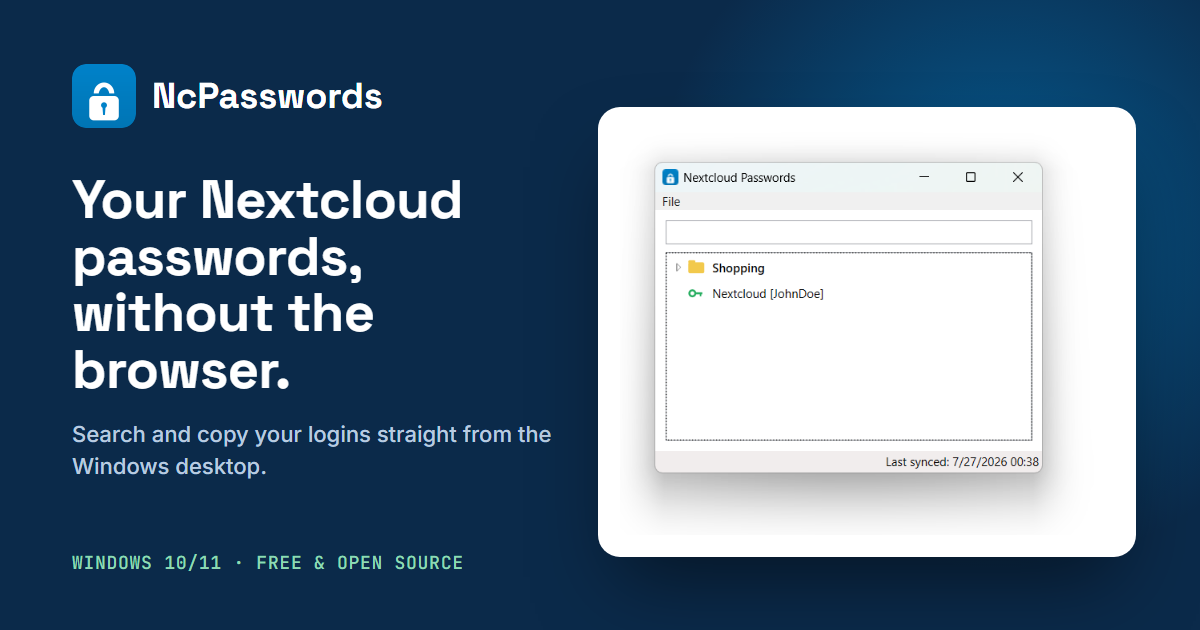
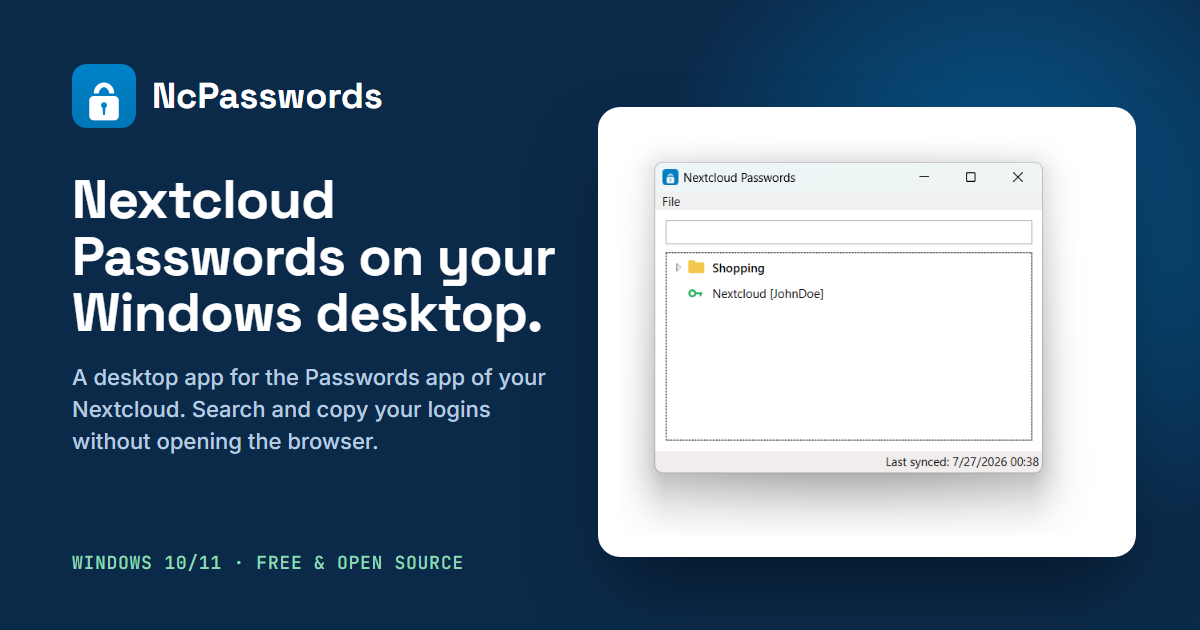
Rewrite the website copy to say clearly what the app is
The page now opens by saying NcPasswords is a Windows desktop app for
the Nextcloud Passwords app, and the rest of the text is shorter and
plainer. It also says that the app only reads passwords and doesn't
support client-side encryption. The title, description, social card
and preview image use the same wording.

Claude-Session: https://claude.ai/code/session_01R2U94GY1SfmXxuYcVYUFi4

Changed region(s): [[0.0617, 0.2714, 0.4625, 0.754]]

diff --git a/docs/index.html b/docs/index.html
@@ -3,8 +3,8 @@
 <head>
 <meta charset="utf-8">
 <meta name="viewport" content="width=device-width, initial-scale=1">
-<title>NcPasswords — Nextcloud Passwords app for Windows</title>
-<meta name="description" content="Free, open-source Windows app for Nextcloud Passwords. Sign in once, then search and copy your logins from the desktop — encrypted on your PC, works offline.">
+<title>NcPasswords – Nextcloud Passwords desktop app for Windows</title>
+<meta name="description" content="A Windows desktop app for the Nextcloud Passwords app. Search your saved logins and copy passwords without opening the browser. Free and open source.">
 <meta name="theme-color" content="#0082C9">
 <link rel="canonical" href="https://nc-passwords.genhttp.run/">
 <link rel="icon" type="image/png" sizes="64x64" href="assets/favicon-64.png">
@@ -18,16 +18,16 @@
 <meta property="og:site_name" content="NcPasswords">
 <meta property="og:locale" content="en_US">
 <meta property="og:url" content="https://nc-passwords.genhttp.run/">
-<meta property="og:title" content="NcPasswords — Nextcloud Passwords app for Windows">
-<meta property="og:description" content="Search and copy the logins you keep in Nextcloud Passwords straight from the Windows desktop. Free, open source, encrypted on your PC.">
+<meta property="og:title" content="NcPasswords – Nextcloud Passwords desktop app for Windows">
+<meta property="og:description" content="A Windows desktop app for the Nextcloud Passwords app: search your saved logins and copy passwords without opening the browser. Free and open source.">
 <meta property="og:image" content="https://nc-passwords.genhttp.run/assets/og-image.png">
 <meta property="og:image:type" content="image/png">
 <meta property="og:image:width" content="1200">
 <meta property="og:image:height" content="630">
-<meta property="og:image:alt" content="NcPasswords logo and the app window listing a Shopping folder and a Nextcloud login, next to the headline: Your Nextcloud passwords, without the browser.">
+<meta property="og:image:alt" content="NcPasswords logo and the app window listing a Shopping folder and a Nextcloud login, next to the headline: Nextcloud Passwords on your Windows desktop.">
 <meta name="twitter:card" content="summary_large_image">
-<meta name="twitter:title" content="NcPasswords — Nextcloud Passwords app for Windows">
-<meta name="twitter:description" content="Search and copy the logins you keep in Nextcloud Passwords straight from the Windows desktop. Free, open source, encrypted on your PC.">
+<meta name="twitter:title" content="NcPasswords – Nextcloud Passwords desktop app for Windows">
+<meta name="twitter:description" content="A Windows desktop app for the Nextcloud Passwords app: search your saved logins and copy passwords without opening the browser. Free and open source.">
 <meta name="twitter:image" content="https://nc-passwords.genhttp.run/assets/og-image.png">
 <meta name="twitter:image:alt" content="NcPasswords logo and the app window listing a Shopping folder and a Nextcloud login.">
 
@@ -139,7 +139,7 @@
   .hero h1{
     font-size: clamp(2.3rem, 4.4vw, 3.4rem);
     line-height: 1.06;
-    max-width: 16ch;
+    max-width: 24ch;
   }
   .hero-sub{
     margin-top: 20px; color: var(--muted); font-size: 1.14rem; max-width: 56ch;
@@ -276,12 +276,13 @@
 
   <section class="hero">
     <div class="wrap">
-      <span class="eyebrow">FOR NEXTCLOUD PASSWORDS</span>
-      <h1>Your passwords,<br>without the browser.</h1>
+      <span class="eyebrow">DESKTOP APP FOR NEXTCLOUD PASSWORDS</span>
+      <h1>Nextcloud Passwords<br>on your Windows desktop.</h1>
       <p class="hero-sub">
-        NcPasswords is a small Windows app for the vault you already keep in Nextcloud.
-        Sign in once, then look up, search and copy your logins straight from the desktop —
-        and everything it stores stays encrypted on your own PC.
+        NcPasswords is a Windows app for <a href="https://apps.nextcloud.com/apps/passwords">Passwords</a>,
+        the password manager you can install on your Nextcloud. Sign in once, and your saved logins are
+        always a click away: search for an entry, copy its password, and get on with your day,
+        without opening Nextcloud in the browser.
       </p>
       <div class="cta-row">
         <a class="btn btn-primary btn-lg" href="https://github.com/Kaliumhexacyanoferrat/nc-passwords-windows/releases/download/v0.2.0/NcPasswords-Setup-0.2.0.exe">
@@ -301,29 +302,29 @@
 
   <section class="trust" id="security">
     <div class="wrap">
-      <span class="eyebrow">LOCAL BY DESIGN</span>
-      <h2>Your secrets never leave this PC unencrypted.</h2>
+      <span class="eyebrow">SECURITY</span>
+      <h2>Your data stays on your PC, encrypted.</h2>
       <div class="trust-grid">
         <div class="trust-card">
           <div class="row">
             <svg width="20" height="20" viewBox="0 0 20 20" fill="none"><rect x="4" y="9" width="12" height="8" rx="2" fill="#1E9E5A"/><path d="M6.5 9V6.5a3.5 3.5 0 0 1 7 0V9" stroke="#1E9E5A" stroke-width="1.8" fill="none"/></svg>
-            <h3>Encrypted at rest</h3>
+            <h3>Encrypted on disk</h3>
           </div>
-          <p>Your Nextcloud login is protected the moment you sign in, using Windows' own per-user encryption (DPAPI) — readable only by your Windows account, on this PC. Want more? Set an optional additional password at sign-in and NcPasswords will ask for it every time it starts, so not even other apps running under your account can read your data without it.</p>
+          <p>Your Nextcloud login and the local copy of your passwords are encrypted with Windows' built-in protection (DPAPI), so only your Windows account on this PC can read them. For extra safety, set a local password when you sign in: NcPasswords then asks for it at every start, and other programs running under your account can't read the data without it.</p>
         </div>
         <div class="trust-card">
           <div class="row">
             <svg width="20" height="20" viewBox="0 0 20 20" fill="none"><path d="M10 2v16M4 6l6-4 6 4M4 6v9a2 2 0 0 0 2 2h8a2 2 0 0 0 2-2V6" stroke="#1E9E5A" stroke-width="1.8" fill="none" stroke-linejoin="round"/></svg>
             <h3>Works offline</h3>
           </div>
-          <p>Your passwords are cached the same way, locally, so NcPasswords keeps working without a connection — and never hands your vault to anyone else.</p>
+          <p>NcPasswords keeps an encrypted copy of your passwords, so you can still look things up without an internet connection. The copy is updated every time you open the app.</p>
         </div>
         <div class="trust-card">
           <div class="row">
             <svg width="20" height="20" viewBox="0 0 20 20" fill="none"><circle cx="10" cy="10" r="7.2" stroke="#1E9E5A" stroke-width="1.8"/><path d="M6.8 10.3l2 2 4.4-4.6" stroke="#1E9E5A" stroke-width="1.8" fill="none" stroke-linecap="round" stroke-linejoin="round"/></svg>
-            <h3>Talks only to your server</h3>
+            <h3>Connects only to your server</h3>
           </div>
-          <p>No analytics, no relay, no other backend. NcPasswords only ever calls the Nextcloud server address you give it.</p>
+          <p>No analytics, no tracking, no servers of ours in between. The app only talks to the Nextcloud address you enter.</p>
         </div>
       </div>
     </div>
@@ -332,32 +333,32 @@
   <section class="features" id="features">
     <div class="wrap">
       <div class="section-head">
-        <span class="eyebrow">WHAT IT DOES</span>
-        <h2>Everything you need, nothing you don't.</h2>
-        <p>NcPasswords keeps its interface as small as the job it does — one combined tree for browsing, one shortcut for copying, and the rest tucked out of sight until you ask for it.</p>
+        <span class="eyebrow">FEATURES</span>
+        <h2>Simple and quick to use.</h2>
+        <p>NcPasswords does one job: getting you to the right password quickly. It shows the passwords you keep in Nextcloud; adding and editing them still happens in Nextcloud itself.</p>
       </div>
 
       <div class="feature-layout">
         <ul class="feature-text-list">
           <li>
-            <strong>One combined tree</strong>
-            <span>Folders and entries live together, in the classic layout made popular by Password Safe — expand what you need, ignore the rest.</span>
+            <strong>Folders and entries in one list</strong>
+            <span>Your Nextcloud folders and entries appear together in a single tree, much like in Password Safe. Open the folders you need and ignore the rest.</span>
           </li>
           <li>
-            <strong>Just a name and a username</strong>
-            <span>Entries show only what helps you pick the right one. Notes, URLs, custom fields and tags stay one click away, in the details view.</span>
+            <strong>A tidy list</strong>
+            <span>Each entry shows just its name and username. The address, notes, tags and custom fields are in the details view.</span>
           </li>
           <li>
-            <strong>Copy without touching the mouse twice</strong>
-            <span>Double-click an entry to copy its password, or press Ctrl+C to copy its username. Either way, your clipboard clears itself after 30 seconds.</span>
+            <strong>Copy in one step</strong>
+            <span>Double-click an entry to copy its password, or press Ctrl+C to copy the username. The clipboard is cleared again after 30 seconds.</span>
           </li>
           <li>
             <strong>Search as you type</strong>
-            <span>Filters instantly across name, username, URL and notes — folders collapse down to just the matches.</span>
+            <span>Type a few letters to filter by name, username, address or notes. Only folders with matching entries stay visible.</span>
           </li>
           <li>
-            <strong>Lives in the tray</strong>
-            <span>Closing the window doesn't quit the app — it's ready the moment you need the next password.</span>
+            <strong>Waits in the tray</strong>
+            <span>Closing the window keeps NcPasswords running in the system tray, ready for the next password. Choose Exit from the tray icon to close it completely.</span>
           </li>
         </ul>
 
@@ -395,24 +396,24 @@
     <div class="wrap">
       <div class="section-head">
         <span class="eyebrow">GET STARTED</span>
-        <h2>Installed in under a minute.</h2>
+        <h2>Set up in a minute.</h2>
       </div>
 
       <div class="install-grid">
         <div class="step">
           <span class="step-num">01</span>
-          <h3>Download the installer</h3>
-          <p>One file, below — no account or sign-up needed to grab it.</p>
+          <h3>Download</h3>
+          <p>Get the installer below. No account or registration needed.</p>
         </div>
         <div class="step">
           <span class="step-num">02</span>
-          <h3>Run it</h3>
-          <p>Installs just for your Windows account, so no administrator rights are required.</p>
+          <h3>Install</h3>
+          <p>It installs for your Windows user only, so you don't need administrator rights.</p>
         </div>
         <div class="step">
           <span class="step-num">03</span>
           <h3>Sign in</h3>
-          <p>Enter your Nextcloud server address, username and password — use an app password if you have two-factor authentication on. Optionally add a local password too, for an extra unlock step on this PC.</p>
+          <p>Enter your Nextcloud address, username and password. If you use two-factor authentication, create an app password in Nextcloud and use that instead. Accounts with client-side encryption aren't supported.</p>
         </div>
       </div>
 
@@ -423,12 +424,12 @@
         <a class="btn btn-ghost btn-lg" href="https://github.com/Kaliumhexacyanoferrat/nc-passwords-windows/releases/download/v0.2.0/NcPasswords-0.2.0-win-x64.zip">
           Portable ZIP
         </a>
-        <span class="cta-meta">Prefer to build it yourself? <a href="https://github.com/Kaliumhexacyanoferrat/nc-passwords-windows#for-developers">Source on GitHub →</a></span>
+        <span class="cta-meta">Want to build it yourself? <a href="https://github.com/Kaliumhexacyanoferrat/nc-passwords-windows#for-developers">Source on GitHub →</a></span>
       </div>
 
       <div class="callout">
         <svg width="18" height="18" viewBox="0 0 20 20" fill="none"><circle cx="10" cy="10" r="8" stroke="#6B5518" stroke-width="1.6"/><path d="M10 6v5" stroke="#6B5518" stroke-width="1.8" stroke-linecap="round"/><circle cx="10" cy="14" r="1" fill="#6B5518"/></svg>
-        <span>NcPasswords isn't digitally signed yet, so Windows may show a blue "unknown publisher" warning the first time you run it. That's expected — choose <strong>More info → Run anyway</strong> to continue.</span>
+        <span>NcPasswords isn't digitally signed yet, so Windows may warn about an unknown publisher the first time you run it. Click <strong>More info</strong>, then <strong>Run anyway</strong>.</span>
       </div>
     </div>
   </section>
@@ -451,10 +452,10 @@
     </div>
     <p class="disclaimer">
       NcPasswords is an independent, MIT-licensed project and isn't affiliated with Nextcloud GmbH.
-      Its navigation style is deliberately modeled after Password Safe.
-      This project — including parts of its code and documentation — was built with the help of Claude
-      (Anthropic's AI coding assistant) and hasn't been reviewed by a third-party security audit.
-      As with any tool that handles your passwords, please use your own judgment, especially for sensitive accounts.
+      Its layout is modeled after Password Safe.
+      Parts of the code and documentation were written with the help of Claude, Anthropic's AI assistant,
+      and the app hasn't had an independent security audit.
+      As with any tool that handles your passwords, use your own judgment, especially for sensitive accounts.
     </p>
     <p class="made-with"><a href="https://genhttp.dev/" rel="nofollow">Made with GenHTTP Lambda</a></p>
   </div>
